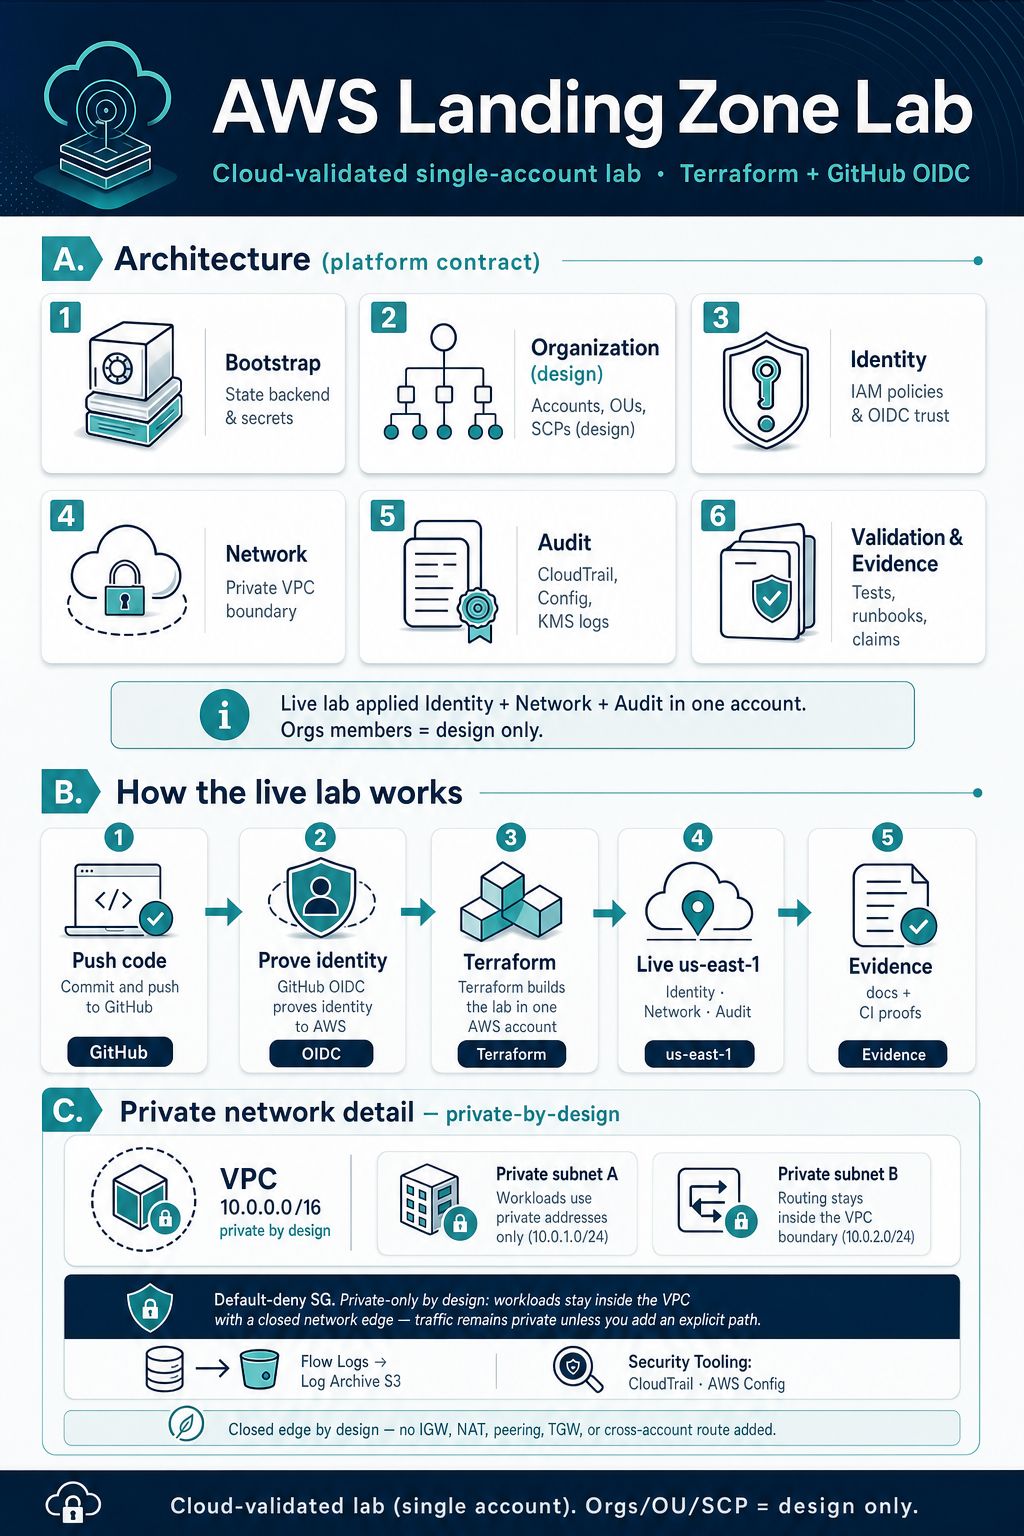
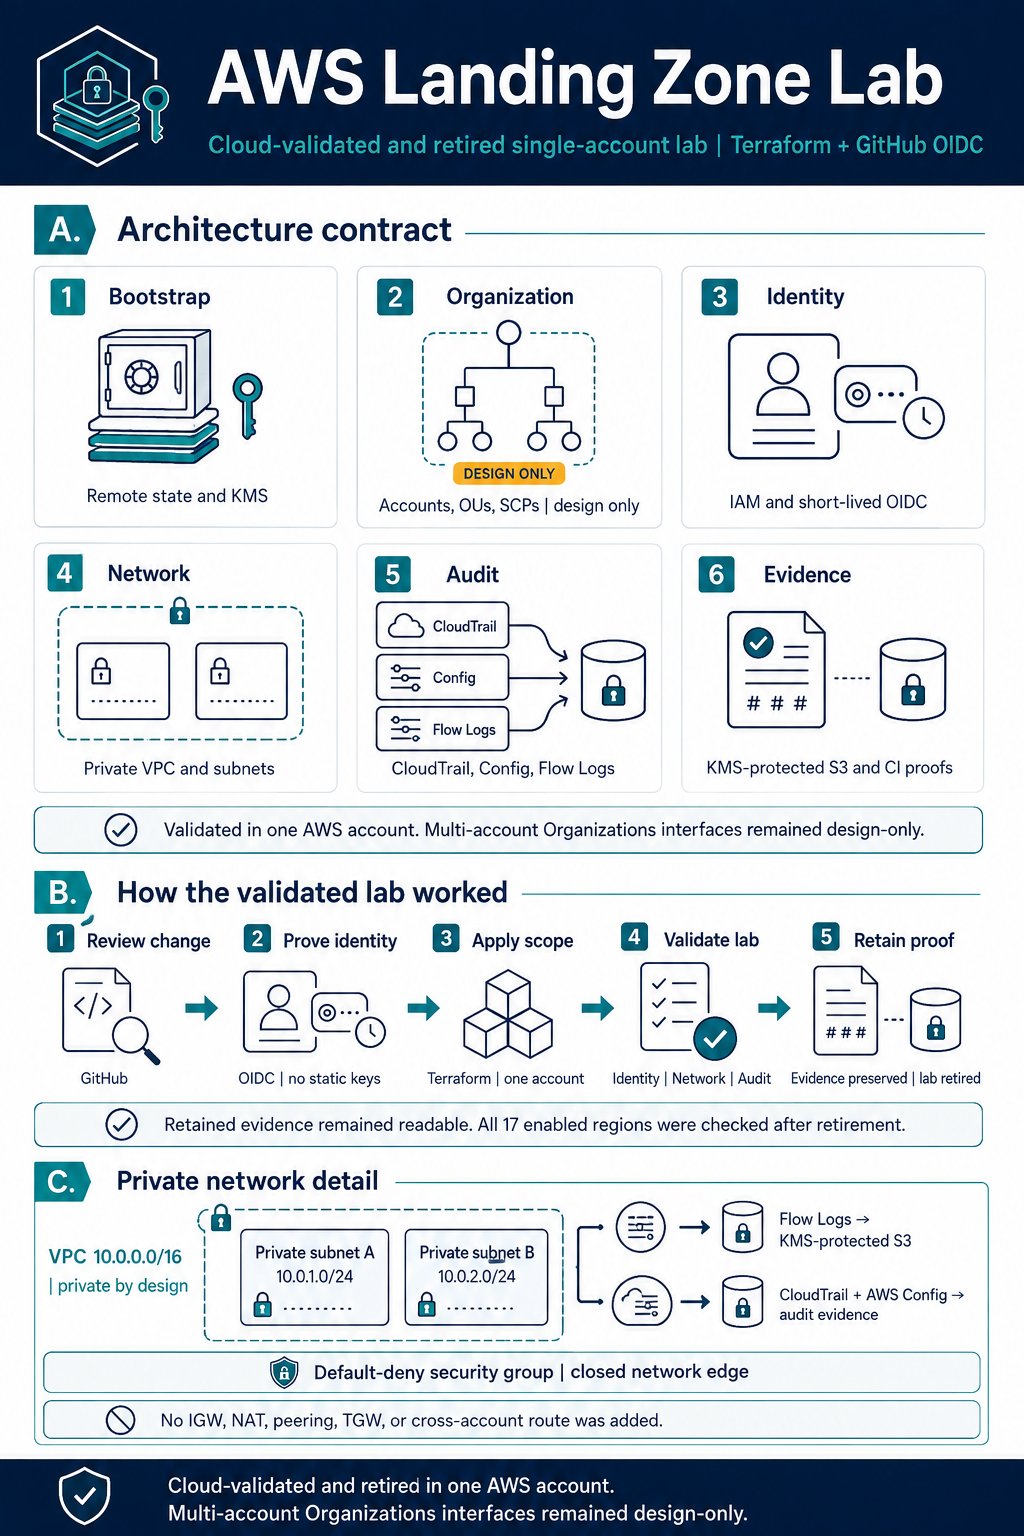
docs: publish retired landing zone infographic

Changed region(s): [[0.0, 0.0, 1.0, 1.0]]

diff --git a/platform/README.md b/platform/README.md
@@ -9,30 +9,29 @@ aws-landing-zone-lab/          ← portfolio face (root README + Image2 figure)
 ├── platform/                  ← YOU ARE HERE
 │   ├── terraform/             ← reusable module design (Orgs, IAM, network, audit, …)
 │   ├── docs/                  ← architecture, claims, operations
-│   ├── sandbox/landing-zone-lab/  ← live cloud-validated lab (OIDC CI)
+│   ├── sandbox/landing-zone-lab/  ← retired cloud-validated lab + retained evidence
 │   └── harness/tasks/A-00x    ← historical task policies (reference only)
 └── evidence/platform/A-00x    ← historical design-gate receipts (repo-only)
 ```
 
 | Layer | Meaning |
 |-------|---------|
-| **Design contract** (`terraform/`, `docs/`, `environments/`) | Multi-account Landing Zone **on paper** — inspectable Terraform and offline gates. Orgs member accounts were **not** created in the live lab. |
-| **Live lab** (`sandbox/landing-zone-lab/`) | **Cloud-validated** in one account: identity + private network + audit via GitHub OIDC → Terraform CI. This is what the resume bullet cites. |
+| **Design contract** (`terraform/`, `docs/`, `environments/`) | Multi-account Landing Zone **on paper** — inspectable Terraform and offline gates. Orgs member accounts were **not** created in the historical lab. |
+| **Retired lab** (`sandbox/landing-zone-lab/`) | **Cloud-validated, then retired** in one account: identity + private network + audit via GitHub OIDC → Terraform CI. Retained S3/KMS evidence remains under separate Terraform state. |
 | **A-001…A-007 evidence** (`../evidence/platform/`) | How the design was gated under the old Ralphy Project A profile. Useful audit trail; **not** cloud proof. |
 | **Smoke harness** | Separate repo: [ralphy-windows-harness](https://github.com/nathanielecon/ralphy-windows-harness). Not required to understand or run this lab. |
 
 ## Diagram
 
 <p align="center">
-  <img src="docs/diagrams/aws-landing-zone-lab.png" alt="AWS Landing Zone Lab consolidated figure" width="100%">
+  <img src="docs/diagrams/aws-landing-zone-lab.png" alt="AWS Landing Zone Lab retired-state architecture, validation flow, private network, and retained evidence" width="100%">
 </p>
 
 <p align="center"><sub>
-GitHub® and the Invertocat logo are trademarks of GitHub, Inc.
-Terraform and the Terraform logo are trademarks of HashiCorp.
-AWS and AWS service names / architecture icons are trademarks of Amazon.com, Inc. or its affiliates.
-Marks identify tools used in this lab and do not imply affiliation or endorsement.
-See <a href="docs/brand/README.md">docs/brand/</a>.
+The Image2 figure uses generic, logo-free illustrations. Service names identify
+the tools used and do not imply affiliation or endorsement. The editable draw.io
+file remains the content authority; see
+<a href="docs/diagrams/aws-landing-zone-lab-image2-provenance.md">provenance and validation</a>.
 </sub></p>
 
 ## Honest resume bullet
@@ -49,9 +48,9 @@ See <a href="docs/brand/README.md">docs/brand/</a>.
 3. [Claims boundary](docs/portfolio/claims-boundary.md)
 4. [Pushback and handoff](docs/review/pushback-and-handoff.md)
 5. [Azure Government readiness](docs/azure-government/readiness.md) (translation-only)
-6. Live lab: [EVIDENCE.md](sandbox/landing-zone-lab/EVIDENCE.md)
+6. Historical lab: [EVIDENCE.md](sandbox/landing-zone-lab/EVIDENCE.md) and [RETIREMENT_EVIDENCE.md](sandbox/landing-zone-lab/RETIREMENT_EVIDENCE.md)
 
 This folder proves junior-to-mid infrastructure design work plus an honest
-cloud-validated single-account live lab. It does **not** prove production
+cloud-validated, retired single-account lab. It does **not** prove production
 deployment, senior ownership, enterprise operations, or multi-account cloud
 validation. Avoid unsupported claims of production readiness.

diff --git a/README.md b/README.md
@@ -11,20 +11,22 @@ Formerly the `cloud` monorepo; the Ralphy smoke harness now lives in
 ## Diagram
 
 <p align="center">
-  <img src="platform/docs/diagrams/aws-landing-zone-lab.png" alt="AWS Landing Zone Lab — consolidated architecture, how it works, and private network" width="100%">
+  <img src="platform/docs/diagrams/aws-landing-zone-lab.png" alt="AWS Landing Zone Lab — cloud-validated and retired single-account architecture, historical validation flow, private network, and retained evidence" width="100%">
 </p>
 
 <p align="center">
-  <a href="platform/docs/diagrams/aws-landing-zone-lab.drawio">Editable draw.io source</a>
+  <a href="platform/docs/diagrams/aws-landing-zone-lab.drawio">Editable draw.io content source</a>
+  ·
+  <a href="platform/docs/diagrams/aws-landing-zone-lab-image2-provenance.md">Image2 provenance and validation</a>
 </p>
 
 | Panel | What it shows |
 |-------|----------------|
-| **A. Architecture** | Bootstrap → Organization (design) → Identity → Network → Audit → Validation. Live lab applied identity + network + audit in one account. |
-| **B. How it worked** | Protected GitHub OIDC → Terraform (one account) → live resources → evidence; later reviewer-gated retirement. |
-| **C. Private network** | Private-by-design VPC: private subnets, default-deny SG, closed network edge (no IGW/NAT/peering/TGW unless added). Flow Logs → Log Archive. |
+| **A. Architecture** | Bootstrap → Organization (design only) → Identity → Network → Audit → Evidence. The historical lab applied identity + network + audit in one account. |
+| **B. How it worked** | Review → protected GitHub OIDC → Terraform in one account → validation → retained evidence. The lab is now retired. |
+| **C. Private network** | Private-by-design VPC: two private subnets, a default-deny security group, and a closed edge with no IGW, NAT, peering, TGW, or cross-account route. Flow Logs and audit records fed protected evidence. |
 
-The displayed figure uses generic symbols. Legacy brandmarked assets were removed; see [`platform/docs/BRANDMARK_REMOVAL.md`](platform/docs/BRANDMARK_REMOVAL.md).
+The displayed figure uses purpose-specific, logo-free line illustrations. The draw.io file is the editable content authority; the Image2 PNG is a presentation derivative. Legacy brandmarked assets were removed; see [`platform/docs/BRANDMARK_REMOVAL.md`](platform/docs/BRANDMARK_REMOVAL.md).
 
 ## Repo map
 

diff --git a/platform/docs/diagrams/aws-landing-zone-lab-image2-provenance.md b/platform/docs/diagrams/aws-landing-zone-lab-image2-provenance.md
@@ -1,0 +1,28 @@
+# AWS Landing Zone Lab Image2 provenance
+
+The draw.io file is the editable content authority for architecture order, workflow order, CIDRs, and scope boundaries. The PNG is a presentation derivative and does not add infrastructure or expand the repository's claims.
+
+## Generation record
+
+- Generated: 2026-09-07, America/New_York.
+- Workflow: user-directed Image2 generation through the Codex built-in OpenAI image-generation tool. The tool did not expose a backend model identifier.
+- Intent: redraw the prior infographic from scratch with purpose-specific, logo-free illustrations and the verified retired-lab state.
+- Content references:
[4 lines of base64/hex data omitted]
+- Prompt: [`aws-landing-zone-lab-image2-prompt.txt`](aws-landing-zone-lab-image2-prompt.txt).
+
+## Validation record
+
+- Pillow decode, dimensions, mode, and image-integrity checks passed.
+- OCR detected the title, architecture labels, service names, CIDRs, and retirement language. Original-resolution review resolved one OCR-only `CI`/`Cl` ambiguity.
+- The architecture and workflow orders match the draw.io content authority.
+- The private network preserves `10.0.0.0/16`, `10.0.1.0/24`, `10.0.2.0/24`, two private subnets, and the closed-edge boundary.
+- The final state says cloud-validated and retired, retained evidence remained readable, and all 17 enabled regions were checked.
+- Multi-account Organizations interfaces remain design-only; the image claims validation in one AWS account only.
+- No account ID, ARN, live identifier, vendor logo, watermark, invented service, or production claim appears.
+- The full-resolution and 800-pixel README-width renders were inspected for clipping, malformed icons, and legibility.
+
+Changing the PNG, prompt, draw.io content, evidence status, or public claim requires a new hash and parity review.
